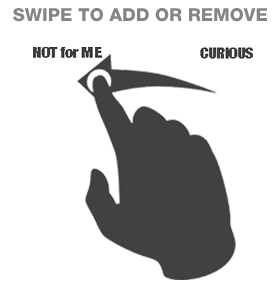
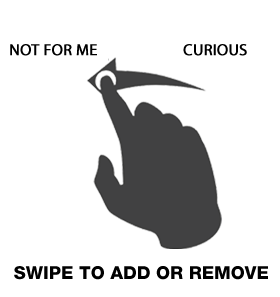
updathe mobile view hand image

diff --git a/shrpr/src/app/core/curious/curious-mobile/curious-mobile.component.css b/shrpr/src/app/core/curious/curious-mobile/curious-mobile.component.css
@@ -15,7 +15,7 @@
       left: 0;
       top: 0;
       background: url('../../../../assets/img/mobile-demo-swipe.png') no-repeat center center;
-      z-index: 1;
+      z-index: 3;
       -moz-animation: cssAnimation 0s ease-in 10s forwards;
       /* Firefox */
       -webkit-animation: cssAnimation 0s ease-in 10s forwards;
@@ -26,6 +26,28 @@
       -webkit-animation-fill-mode: forwards;
       animation-fill-mode: forwards;
   }
+  
+#curious-swiper.active::before {
+    background: #ffffff;
+    content: "";
+    height: 100%;
+    left: 0;
+    opacity: 0.7;
+    position: absolute;
+    top: 0;
+    width: 100%;
+    z-index: 2;
+    -moz-animation: cssAnimation 0s ease-in 10s forwards;
+    /* Firefox */
+    -webkit-animation: cssAnimation 0s ease-in 10s forwards;
+    /* Safari and Chrome */
+    -o-animation: cssAnimation 0s ease-in 10s forwards;
+    /* Opera */
+    animation: cssAnimation 0s ease-in 10s forwards;
+    -webkit-animation-fill-mode: forwards;
+    animation-fill-mode: forwards;
+}
+  
 @keyframes cssAnimation {
     to {
         visibility:hidden;
@@ -36,6 +58,7 @@
         visibility:hidden;
     }
 }
+
 #curious-swiper article  {
     display: block;
     position: absolute;
